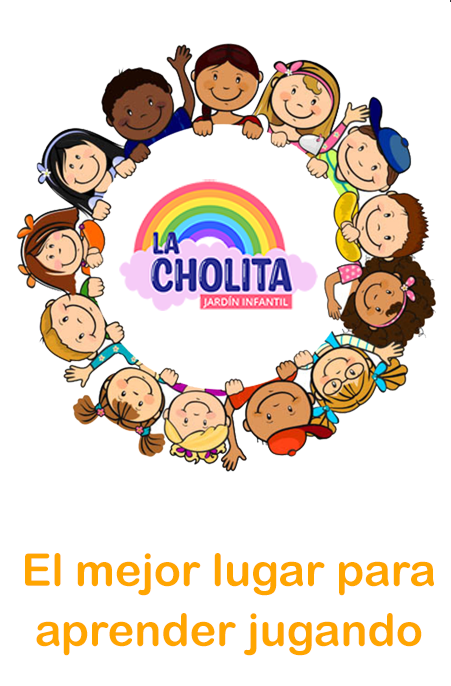
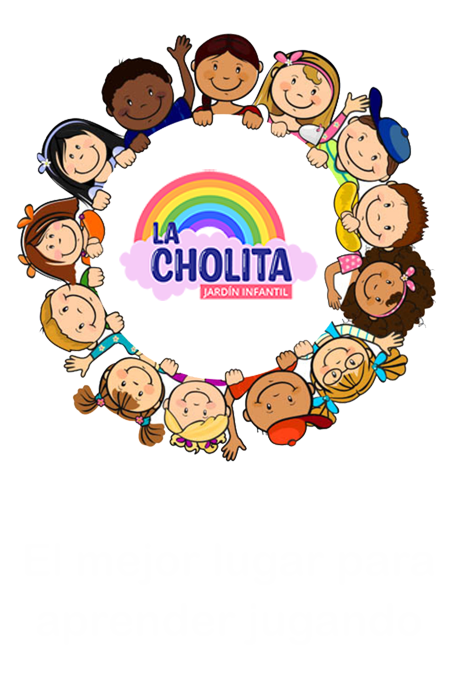
arreglo fondo index

diff --git a/css/style.css b/css/style.css
@@ -11261,6 +11261,17 @@ body {
 @media only screen and (max-width: 1080px) {
   .contenedor__home {
     height: 90vh;
+    background-image: url(../img/portada2.png);
+    background-size: contain;
+    background-repeat: no-repeat;
+  }
+}
+@media only screen and (max-width: 900px) {
+  .contenedor__home {
+    height: 90vh;
+    background-image: url(../img/portada2.png);
+    background-size: contain;
+    background-repeat: no-repeat;
   }
 }
 @media only screen and (max-width: 700px) {

diff --git a/scss/_home.scss b/scss/_home.scss
@@ -15,6 +15,18 @@
 @media only screen and (max-width: 1080px) {
   .contenedor__home {
     height: 90vh;
+    background-image: url(../img/portada2.png);
+    background-size: contain;
+    background-repeat: no-repeat;
+  }
+}
+
+@media only screen and (max-width: 900px) {
+  .contenedor__home {
+    height: 90vh;
+    background-image: url(../img/portada2.png);
+    background-size: contain;
+    background-repeat: no-repeat;
   }
 }
 
